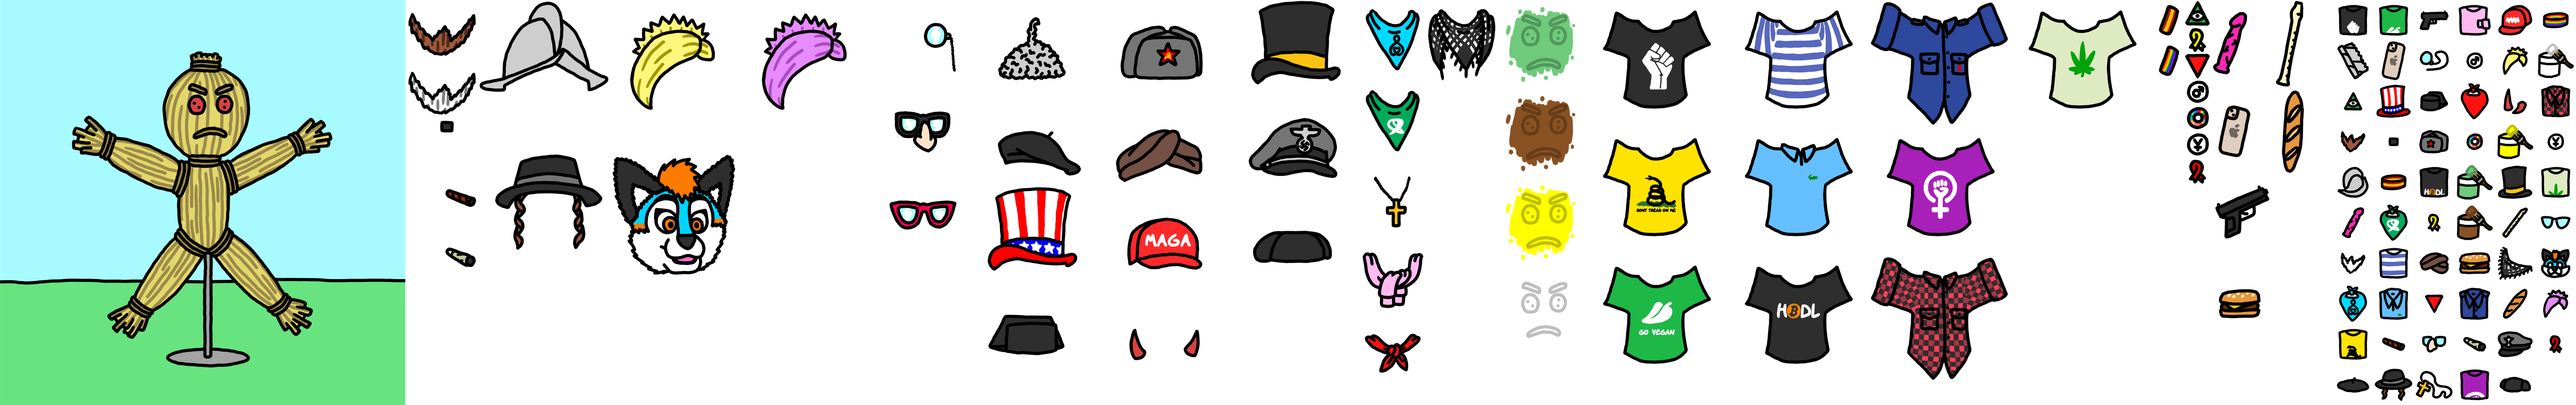
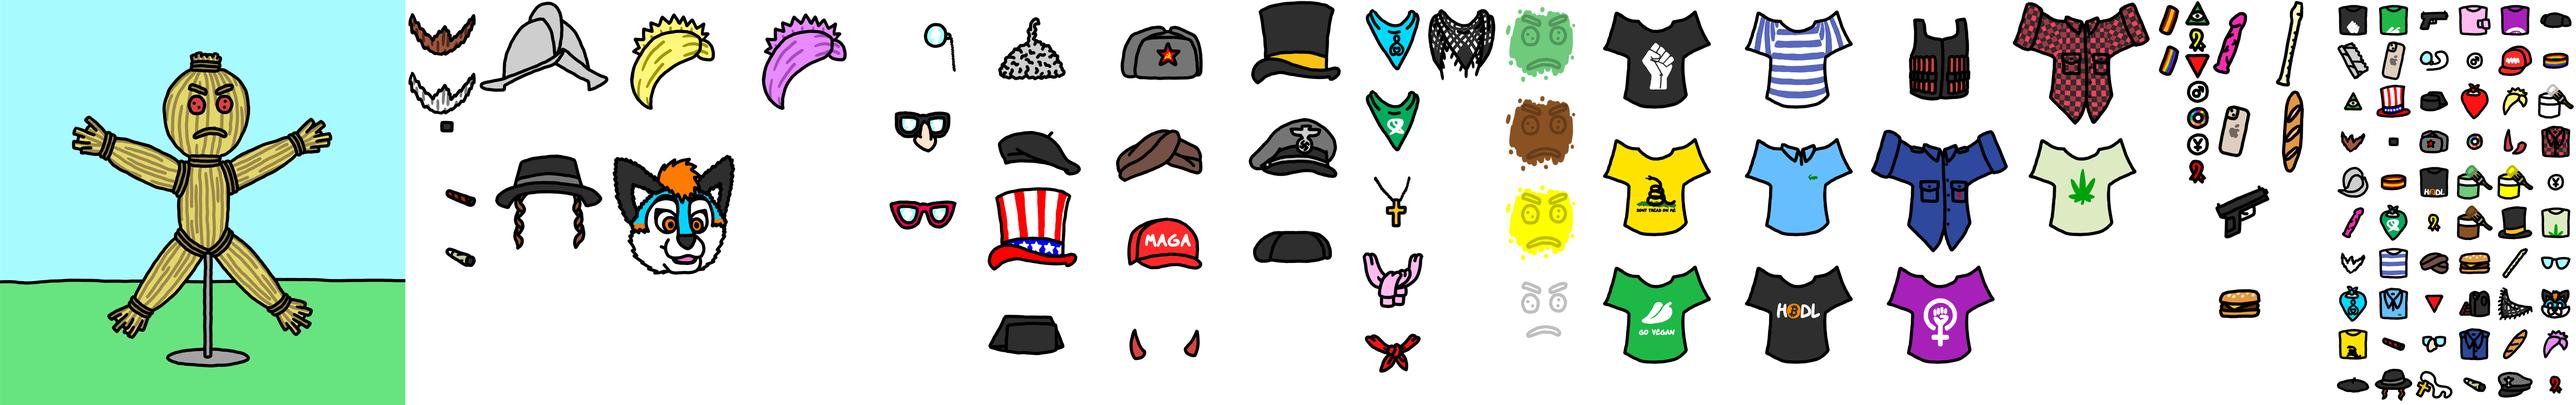
New accessories

diff --git a/docs/static/js/main.f2a2d364.chunk.js b/docs/static/js/main.f2a2d364.chunk.js
@@ -1,0 +1,2 @@
+(this.webpackJsonpstrawman=this.webpackJsonpstrawman||[]).push([[0],[,function(e){e.exports=JSON.parse('{"2030":{"en":"2030","es":"2030"},"loading":{"en":"loading","es":"cargando"},"make":{"en":"make your own","es":"crea tu propio"},"by":{"en":"by","es":"por"},"make_at":{"en":"make your own at","es":"crea el tuyo propio en"},"strawman":{"en":"straw man","es":"hombre de paja"},"download":{"en":"download","es":"descargar"},"accessories":{"en":"accessories","es":"accesorios"},"head":{"en":"head","es":"cabeza"},"color":{"en":"skin color","es":"tono de piel"},"glasses":{"en":"glasses","es":"gafas"},"neck":{"en":"neck","es":"cuello"},"bracelets":{"en":"bracelets","es":"pulseras"},"badges":{"en":"badges","es":"pines"},"hand":{"en":"hand","es":"mano"},"chest":{"en":"chest","es":"pecho"},"mouth":{"en":"mouth","es":"boca"},"spain":{"en":"Spain","es":"Espa\xf1a"},"lgbt":{"en":"LGBTIQ+","es":"LGBTIQ+"},"illuminati":{"en":"Illuminati","es":"Illuminati"},"yunque":{"en":"El Yunque","es":"El Yunque"},"male":{"en":"male","es":"hombre"},"red_triangle":{"en":"red triangle","es":"tri\xe1ngulo rojo"},"red_ribbon":{"en":"red ribbon","es":"lazo rojo"},"yellow_ribbon":{"en":"yellow ribbon","es":"lazo amarillo"},"prochoice":{"en":"pro-choice kerchief","es":"pa\xf1uelo abortero"},"prolife":{"en":"pro-life kerchief","es":"pa\xf1uelo provida"},"cross":{"en":"cross necklace","es":"colgante con cruz"},"nose":{"en":"glasses with nose","es":"gafas con nariz"},"cat_eye":{"en":"cat eye glasses","es":"gafas de ojo de gato"},"monocle":{"en":"monocle","es":"mon\xf3culo"},"green":{"en":"green","es":"verde"},"white":{"en":"white","es":"blanco"},"yellow":{"en":"yellow","es":"amarillo"},"brown":{"en":"brown","es":"marr\xf3n"},"morion":{"en":"morion","es":"morri\xf3n"},"turban":{"en":"turban","es":"turbante"},"sideburns":{"en":"hat with sideburns","es":"gorro con patillas"},"commie":{"en":"communist hat","es":"gorro comunista"},"top":{"en":"top hat","es":"chistera"},"nazi":{"en":"nazi hat","es":"gorra nazi"},"maga":{"en":"MAGA hat","es":"gorra MAGA"},"tricornio":{"en":"tricornio","es":"tricornio"},"montera":{"en":"montera","es":"montera"},"pink_hair":{"en":"pink hair","es":"pelo rosa"},"blond_hair":{"en":"blond hair","es":"pelo rubio"},"horns":{"en":"horns","es":"cuernos"},"furry":{"en":"furry mask","es":"m\xe1scara de furro"},"keffiyeh":{"en":"Palestinian keffiyeh","es":"palestina"},"sweater":{"en":"sweater","es":"jersey"},"tinfoil":{"en":"tinfoil","es":"papel de aluminio"},"flute":{"en":"flute","es":"flauta"},"dildo":{"en":"dildo","es":"consolador"},"gun":{"en":"gun","es":"pistola"},"iphone":{"en":"iPhone","es":"iPhone"},"blue_shirt":{"en":"blue shirt","es":"camisa azul"},"lumberjack":{"en":"lumberjack shirt","es":"camisa le\xf1ador"},"blm":{"en":"BLM T-shirt","es":"camiseta BLM"},"gadsden":{"en":"Gadsden T-shirt","es":"camiseta Gadsden"},"polo":{"en":"polo shirt","es":"polo"},"vegan":{"en":"vegan T-shirt","es":"camiseta vegana"},"feminism":{"en":"feminist T-shirt","es":"camiseta feminista"},"bitcoin":{"en":"Bitcoin T-shirt","es":"camiseta de Bitcoin"},"chaplin":{"en":"Chaplin moustache","es":"bigote de Chaplin"},"brown_beard":{"en":"brown beard","es":"barba casta\xf1a"},"white_beard":{"en":"white beard","es":"barba blanca"},"sam":{"en":"Uncle Sam\'s hat","es":"chistera del T\xedo Sam"},"cigar":{"en":"cigar","es":"puro"},"burger":{"en":"burger","es":"hamburguesa"},"baguette":{"en":"baguette","es":"baguette"},"beret":{"en":"beret","es":"boina"},"kerchief":{"en":"kerchief","es":"pa\xf1uelo"},"joint":{"en":"joint","es":"porro"},"striped":{"en":"striped T-shirt","es":"camiseta de rayas"},"weed":{"en":"weed T-shirt","es":"camiseta mar\xeda"},"vest":{"en":"bomb vest","es":"chaleco bomba"}}')},,,,,,,,,function(e){e.exports=JSON.parse('{"bracelets":{"lgbt":{"y":100,"w":80,"x":5310,"t":{"y":100,"w":100,"x":6255,"h":100},"h":100},"spain":{"y":0,"w":80,"x":5310,"t":{"y":400,"w":100,"x":5855,"h":100},"h":100}},"strawman":{"y":0,"w":1000,"x":0,"h":1000},"badges":{"2030":{"y":260,"w":65,"x":5390,"t":{"y":300,"w":100,"x":6055,"h":100},"h":65},"red_ribbon":{"y":390,"w":65,"x":5390,"t":{"y":900,"w":100,"x":6255,"h":100},"h":65},"yellow_ribbon":{"y":65,"w":65,"x":5390,"t":{"y":500,"w":100,"x":5955,"h":100},"h":65},"yunque":{"y":325,"w":65,"x":5390,"t":{"y":400,"w":100,"x":6255,"h":100},"h":65},"male":{"y":195,"w":65,"x":5390,"t":{"y":100,"w":100,"x":6055,"h":100},"h":65},"red_triangle":{"y":130,"w":65,"x":5390,"t":{"y":700,"w":100,"x":5955,"h":100},"h":65},"illuminati":{"y":0,"w":65,"x":5390,"t":{"y":200,"w":100,"x":5755,"h":100},"h":65}},"mouth":{"chaplin":{"y":290,"w":180,"x":1000,"t":{"y":300,"w":100,"x":5855,"h":100},"h":145},"brown_beard":{"y":0,"w":180,"x":1000,"t":{"y":300,"w":100,"x":5755,"h":100},"h":145},"cigar":{"y":435,"w":180,"x":1000,"t":{"y":800,"w":100,"x":5855,"h":100},"h":145},"joint":{"y":580,"w":180,"x":1000,"t":{"y":900,"w":100,"x":6055,"h":100},"h":145},"white_beard":{"y":145,"w":180,"x":1000,"t":{"y":600,"w":100,"x":5755,"h":100},"h":145}},"head2":{"sideburns":{"y":340,"w":325,"x":1180,"t":{"y":900,"w":100,"x":5855,"h":100},"h":340},"blond_hair":{"y":0,"w":325,"x":1505,"t":{"y":200,"w":100,"x":6155,"h":100},"h":340},"pink_hair":{"y":0,"w":325,"x":1830,"t":{"y":800,"w":100,"x":6255,"h":100},"h":340},"morion":{"y":0,"w":325,"x":1180,"t":{"y":400,"w":100,"x":5755,"h":100},"h":340},"furry":{"y":340,"w":325,"x":1505,"t":{"y":700,"w":100,"x":6255,"h":100},"h":340}},"head":{"maga":{"y":460,"w":325,"x":2700,"t":{"y":100,"w":100,"x":6155,"h":100},"h":230},"commie":{"y":0,"w":325,"x":2700,"t":{"y":300,"w":100,"x":5955,"h":100},"h":230},"tricornio":{"y":690,"w":325,"x":2375,"t":{"y":200,"w":100,"x":5955,"h":100},"h":230},"montera":{"y":460,"w":325,"x":3025,"t":{"y":0,"w":100,"x":6255,"h":100},"h":230},"top":{"y":0,"w":325,"x":3025,"t":{"y":500,"w":100,"x":6155,"h":100},"h":230},"nazi":{"y":230,"w":325,"x":3025,"t":{"y":900,"w":100,"x":6155,"h":100},"h":230},"tinfoil":{"y":0,"w":325,"x":2375,"t":{"y":100,"w":100,"x":5755,"h":100},"h":230},"turban":{"y":230,"w":325,"x":2700,"t":{"y":600,"w":100,"x":5955,"h":100},"h":230},"sam":{"y":460,"w":325,"x":2375,"t":{"y":200,"w":100,"x":5855,"h":100},"h":230},"horns":{"y":690,"w":325,"x":2700,"t":{"y":300,"w":100,"x":6155,"h":100},"h":230},"beret":{"y":230,"w":325,"x":2375,"t":{"y":900,"w":100,"x":5755,"h":100},"h":230}},"hand":{"dildo":{"y":0,"w":150,"x":5455,"t":{"y":500,"w":100,"x":5755,"h":100},"h":220},"burger":{"y":660,"w":150,"x":5455,"t":{"y":600,"w":100,"x":6055,"h":100},"h":220},"gun":{"y":440,"w":150,"x":5455,"t":{"y":0,"w":100,"x":5955,"h":100},"h":220},"baguette":{"y":220,"w":150,"x":5605,"t":{"y":800,"w":100,"x":6155,"h":100},"h":220},"flute":{"y":0,"w":150,"x":5605,"t":{"y":600,"w":100,"x":6155,"h":100},"h":220},"iphone":{"y":220,"w":150,"x":5455,"t":{"y":100,"w":100,"x":5855,"h":100},"h":220}},"glasses":{"cat_eye":{"y":440,"w":220,"x":2155,"t":{"y":600,"w":100,"x":6255,"h":100},"h":220},"nose":{"y":220,"w":220,"x":2155,"t":{"y":800,"w":100,"x":5955,"h":100},"h":220},"monocle":{"y":0,"w":220,"x":2155,"t":{"y":100,"w":100,"x":5955,"h":100},"h":220}},"neck":{"kerchief":{"y":800,"w":170,"x":3350,"t":{"y":200,"w":100,"x":6055,"h":100},"h":200},"sweater":{"y":600,"w":170,"x":3350,"t":{"y":0,"w":100,"x":6055,"h":100},"h":200},"cross":{"y":400,"w":170,"x":3350,"t":{"y":900,"w":100,"x":5955,"h":100},"h":200},"keffiyeh":{"y":0,"w":170,"x":3520,"t":{"y":700,"w":100,"x":6155,"h":100},"h":200},"prolife":{"y":0,"w":170,"x":3350,"t":{"y":700,"w":100,"x":5755,"h":100},"h":200},"prochoice":{"y":200,"w":170,"x":3350,"t":{"y":500,"w":100,"x":5855,"h":100},"h":200}},"chest":{"feminism":{"y":630,"w":350,"x":4610,"t":{"y":0,"w":100,"x":6155,"h":100},"h":315},"lumberjack":{"y":0,"w":350,"x":4960,"t":{"y":300,"w":100,"x":6255,"h":100},"h":315},"vegan":{"y":630,"w":350,"x":3910,"t":{"y":0,"w":100,"x":5855,"h":100},"h":315},"bitcoin":{"y":630,"w":350,"x":4260,"t":{"y":400,"w":100,"x":5955,"h":100},"h":315},"polo":{"y":315,"w":350,"x":4260,"t":{"y":700,"w":100,"x":5855,"h":100},"h":315},"weed":{"y":315,"w":350,"x":4960,"t":{"y":500,"w":100,"x":6255,"h":100},"h":315},"gadsden":{"y":315,"w":350,"x":3910,"t":{"y":800,"w":100,"x":5755,"h":100},"h":315},"vest":{"y":0,"w":350,"x":4610,"t":{"y":700,"w":100,"x":6055,"h":100},"h":315},"blue_shirt":{"y":315,"w":350,"x":4610,"t":{"y":800,"w":100,"x":6055,"h":100},"h":315},"blm":{"y":0,"w":350,"x":3910,"t":{"y":0,"w":100,"x":5755,"h":100},"h":315},"striped":{"y":0,"w":350,"x":4260,"t":{"y":600,"w":100,"x":5855,"h":100},"h":315}},"color":{"green":{"y":0,"w":220,"x":3690,"t":{"y":400,"w":100,"x":6055,"h":100},"h":220},"white":{"y":660,"w":220,"x":3690,"t":{"y":200,"w":100,"x":6255,"h":100},"h":220},"yellow":{"y":440,"w":220,"x":3690,"t":{"y":400,"w":100,"x":6155,"h":100},"h":220},"brown":{"y":220,"w":220,"x":3690,"t":{"y":500,"w":100,"x":6055,"h":100},"h":220}}}')},,,,function(e){e.exports=JSON.parse('{"head":{"x":340,"y":10,"w":325,"h":230,"z":8},"head2":{"x":340,"y":55,"w":325,"h":340,"z":8},"color":{"x":400,"y":170,"w":220,"h":220,"z":5},"mouth":{"x":420,"y":280,"w":180,"h":145,"z":6},"glasses":{"x":400,"y":170,"w":220,"h":220,"z":7},"neck":{"x":420,"y":355,"w":170,"h":200,"z":1},"bracelets":{"x":225,"y":310,"w":80,"h":100,"z":2},"badges":{"x":515,"y":395,"w":65,"h":65,"z":3},"hand":{"x":715,"y":230,"w":150,"h":220,"z":4},"chest":{"x":330,"y":345,"w":350,"h":315,"z":0}}')},,,,,,function(e,t,a){},function(e,t,a){},function(e,t,a){},,function(e,t,a){},function(e,t,a){},function(e,t,a){"use strict";a.r(t);var n=a(2),s=a.n(n),r=a(12),i=a.n(r),o=(a(20),a(11)),h=a(3),c=a(4),l=a(6),w=a(5),d=(a(21),a(15)),y=a(13),x=(a(22),function e(t){Object(h.a)(this,e),this.x=t.x,this.y=t.y,this.w=t.w,this.h=t.h}),u=function e(t,a,n,s){Object(h.a)(this,e),this.selected=!1,this.name=t,this.category=a,this.origin=new x(n),this.destination=new x(s),this.order=s.z,this.thumbnail=new x(n.t)},p=a(1),m=a(0),b=function(e){Object(l.a)(a,e);var t=Object(w.a)(a);function a(e){var s;return Object(h.a)(this,a),(s=t.call(this,e)).side=s.props.strawman.h,s.canvas=Object(n.createRef)(),s.maxScaleFactor=.7,s.state={scaleFactor:s.getScaleFactor()},s}return Object(c.a)(a,[{key:"componentDidMount",value:function(){var e=this;window.addEventListener("resize",(function(){e.setState({scaleFactor:e.getScaleFactor()})})),this.drawCanvas()}},{key:"componentDidUpdate",value:function(){this.drawCanvas()}},{key:"render",value:function(){var e=this;return Object(m.jsxs)("div",{className:"canvas-component",children:[Object(m.jsxs)("h1",{children:[Object(m.jsx)("div",{children:p.make[this.props.lang].capitalize()}),Object(m.jsx)("div",{children:p.strawman[this.props.lang].toUpperCase()}),Object(m.jsxs)("div",{children:[p.by[this.props.lang]," ",Object(m.jsx)("a",{href:"/",target:"_blank",children:"progredemente"})]})]}),Object(m.jsx)("canvas",{ref:this.canvas,width:this.side*this.state.scaleFactor,height:this.side*this.state.scaleFactor}),Object(m.jsx)("div",{className:"download",onClick:function(){e.downloadImage()},children:p.download[this.props.lang].capitalize()})]})}},{key:"drawCanvas",value:function(){var e=this.getTempCanvas(),t=this.canvas.current.getContext("2d");t.clearRect(0,0,this.side*this.state.scaleFactor,this.side*this.state.scaleFactor),t.drawImage(e,0,0,this.side*this.state.scaleFactor,this.side*this.state.scaleFactor)}},{key:"getTempCanvas",value:function(){var e=document.createElement("canvas");e.width=this.side,e.height=this.side;var t=e.getContext("2d");return this.drawImage(this.props.strawman,this.props.strawman,t),this.drawWardrobe(this.props.wardrobe,t),this.drawUrl(t),e}},{key:"drawWardrobe",value:function(e,t){var a,n=Object(y.a)(this.getClothes(e).sort((function(e,t){return e.order-t.order})));try{for(n.s();!(a=n.n()).done;){var s=a.value;this.drawImage(s.origin,s.destination,t)}}catch(r){n.e(r)}finally{n.f()}}},{key:"getClothes",value:function(e){var t=[];for(var a in e)e[a]instanceof u?e[a].selected&&t.push(e[a]):t.push.apply(t,Object(d.a)(this.getClothes(e[a])));return t}},{key:"drawImage",value:function(e,t,a){a.drawImage(this.props.img,e.x,e.y,e.w,e.h,t.x,t.y,t.w,t.h)}},{key:"drawUrl",value:function(e){e.font="40px ComicTypo",e.textAlign="center",e.globalAlpha=.25,e.fillText(p.make_at[this.props.lang].capitalize(),this.side/2,this.side-60),e.globalAlpha=.5,e.fillText("progredemente.com/strawman",this.side/2,this.side-20)}},{key:"downloadImage",value:function(){var e=document.createElement("a");e.download="strawman.png",this.getTempCanvas().toBlob((function(t){var a=URL.createObjectURL(t);e.href=a,e.click()}))}},{key:"getScaleFactor",value:function(){return window.innerWidth<this.side*this.maxScaleFactor?window.innerWidth/this.side:this.maxScaleFactor}}]),a}(n.Component),g=(a(24),a(25),function(e){Object(l.a)(a,e);var t=Object(w.a)(a);function a(){return Object(h.a)(this,a),t.apply(this,arguments)}return Object(c.a)(a,[{key:"render",value:function(){var e=this;return Object(m.jsxs)("div",{className:"garment".concat(this.props.garment.selected?" selected":""),onClick:function(){e.props.selectGarment(e.props.garment)},children:[Object(m.jsx)("img",{src:"./merge.png",style:{"--x":"".concat(this.props.garment.thumbnail.x,"px"),"--y":"".concat(this.props.garment.thumbnail.y,"px"),"--w":"".concat(this.props.garment.thumbnail.w,"px"),"--h":"".concat(this.props.garment.thumbnail.h,"px")},alt:p[this.props.garment.name][this.props.lang]}),Object(m.jsx)("figcaption",{children:p[this.props.garment.name][this.props.lang]})]})}}]),a}(n.Component)),f=g,j=function(e){Object(l.a)(a,e);var t=Object(w.a)(a);function a(){return Object(h.a)(this,a),t.apply(this,arguments)}return Object(c.a)(a,[{key:"render",value:function(){var e=this;return Object(m.jsxs)("div",{className:"wardrobe",children:[Object(m.jsx)("h1",{children:p.accessories[this.props.lang].capitalize()}),Object.keys(this.props.wardrobe).map((function(t){return Object(m.jsxs)("div",{className:"category",children:[Object(m.jsx)("span",{children:p[t][e.props.lang].capitalize()}),Object(m.jsx)("div",{className:"content",children:Object.keys(e.props.wardrobe[t]).map((function(a){return Object(m.jsx)(f,{garment:e.props.wardrobe[t][a],selectGarment:e.props.selectGarment,lang:e.props.lang},a)}))})]},t)}))]})}}]),a}(n.Component),v=j,O=a(10),k=a(14),z=function(e){Object(l.a)(a,e);var t=Object(w.a)(a);function a(e){var n,s;Object(h.a)(this,a),(n=t.call(this,e)).selectGarment=function(e){if(!e.selected)for(var t in e.category){var a=e.category[t];a!==e&&(a.selected=!1)}e.selected=!e.selected,n.setState({})};try{s=navigator.language.toLowerCase().split("-")[0]}catch(r){}return["en","es"].includes(s)||(s="en"),n.state={wardrobe:n.getWardrobe(O,k),lang:s,loaded:!1},n}return Object(c.a)(a,[{key:"componentDidMount",value:function(){var e=this;this.img=new Image,this.img.src="./merge.png",this.img.onload=function(){e.setState({loaded:!0})}}},{key:"joinCategories",value:function(e,t,a){for(var n in e[t]=Object(o.a)(Object(o.a)({},e[t]),e[a]),delete e[a],e[t])e[t][n].category=e[t]}},{key:"getWardrobe",value:function(e,t){var a={};for(var n in e)if("strawman"!==n)for(var s in a[n]={},e[n])a[n][s]=new u(s,a[n],e[n][s],t[n]);return this.joinCategories(a,"head","head2"),console.log(a),a}},{key:"render",value:function(){return Object(m.jsxs)(m.Fragment,{children:[this.state.loaded&&Object(m.jsxs)("div",{className:"app",children:[Object(m.jsx)(b,{wardrobe:this.state.wardrobe,strawman:new x(O.strawman),lang:this.state.lang,img:this.img}),Object(m.jsx)(v,{wardrobe:this.state.wardrobe,selectGarment:this.selectGarment,lang:this.state.lang})]}),!this.state.loaded&&Object(m.jsxs)("div",{className:"loading",children:[Object(m.jsx)("img",{src:"./favicon.png",alt:p.loading[this.state.lang]}),p.loading[this.state.lang]]})]})}}]),a}(n.Component),C=function(e){e&&e instanceof Function&&a.e(3).then(a.bind(null,27)).then((function(t){var a=t.getCLS,n=t.getFID,s=t.getFCP,r=t.getLCP,i=t.getTTFB;a(e),n(e),s(e),r(e),i(e)}))};String.prototype.capitalize=function(){return this[0].toUpperCase()+this.substr(1,this.length)},i.a.render(Object(m.jsx)(s.a.StrictMode,{children:Object(m.jsx)(z,{})}),document.getElementById("root")),C()}],[[26,1,2]]]);
+//# sourceMappingURL=main.f2a2d364.chunk.js.map

diff --git a/docs/index.html b/docs/index.html
@@ -1,1 +1,1 @@
-<!doctype html><html lang="en"><head><script async src="https://www.googletagmanager.com/gtag/js?id=G-Y5CBECWJKM"></script><script>function gtag(){dataLayer.push(arguments)}window.dataLayer=window.dataLayer||[],gtag("js",new Date),gtag("config","G-Y5CBECWJKM",{send_page_view:!1}),gtag("event","page_view",{page_title:"strawman"})</script><meta charset="utf-8"/><link rel="icon" href="./favicon.png"/><meta name="viewport" content="width=device-width,initial-scale=1"/><meta name="theme-color" content="#000000"/><meta name="description" content="Web site created using create-react-app"/><link rel="apple-touch-icon" href="./logo192.png"/><link rel="manifest" href="./manifest.json"/><title>Straw man</title><link href="./static/css/main.2544bd09.chunk.css" rel="stylesheet"></head><body><noscript>You need to enable JavaScript to run this app.</noscript><div id="root"></div><script>!function(e){function r(r){for(var n,u,i=r[0],c=r[1],l=r[2],s=0,p=[];s<i.length;s++)u=i[s],Object.prototype.hasOwnProperty.call(o,u)&&o[u]&&p.push(o[u][0]),o[u]=0;for(n in c)Object.prototype.hasOwnProperty.call(c,n)&&(e[n]=c[n]);for(f&&f(r);p.length;)p.shift()();return a.push.apply(a,l||[]),t()}function t(){for(var e,r=0;r<a.length;r++){for(var t=a[r],n=!0,i=1;i<t.length;i++){var c=t[i];0!==o[c]&&(n=!1)}n&&(a.splice(r--,1),e=u(u.s=t[0]))}return e}var n={},o={1:0},a=[];function u(r){if(n[r])return n[r].exports;var t=n[r]={i:r,l:!1,exports:{}};return e[r].call(t.exports,t,t.exports,u),t.l=!0,t.exports}u.e=function(e){var r=[],t=o[e];if(0!==t)if(t)r.push(t[2]);else{var n=new Promise((function(r,n){t=o[e]=[r,n]}));r.push(t[2]=n);var a,i=document.createElement("script");i.charset="utf-8",i.timeout=120,u.nc&&i.setAttribute("nonce",u.nc),i.src=function(e){return u.p+"static/js/"+({}[e]||e)+"."+{3:"adbab9fa"}[e]+".chunk.js"}(e);var c=new Error;a=function(r){i.onerror=i.onload=null,clearTimeout(l);var t=o[e];if(0!==t){if(t){var n=r&&("load"===r.type?"missing":r.type),a=r&&r.target&&r.target.src;c.message="Loading chunk "+e+" failed.\n("+n+": "+a+")",c.name="ChunkLoadError",c.type=n,c.request=a,t[1](c)}o[e]=void 0}};var l=setTimeout((function(){a({type:"timeout",target:i})}),12e4);i.onerror=i.onload=a,document.head.appendChild(i)}return Promise.all(r)},u.m=e,u.c=n,u.d=function(e,r,t){u.o(e,r)||Object.defineProperty(e,r,{enumerable:!0,get:t})},u.r=function(e){"undefined"!=typeof Symbol&&Symbol.toStringTag&&Object.defineProperty(e,Symbol.toStringTag,{value:"Module"}),Object.defineProperty(e,"__esModule",{value:!0})},u.t=function(e,r){if(1&r&&(e=u(e)),8&r)return e;if(4&r&&"object"==typeof e&&e&&e.__esModule)return e;var t=Object.create(null);if(u.r(t),Object.defineProperty(t,"default",{enumerable:!0,value:e}),2&r&&"string"!=typeof e)for(var n in e)u.d(t,n,function(r){return e[r]}.bind(null,n));return t},u.n=function(e){var r=e&&e.__esModule?function(){return e.default}:function(){return e};return u.d(r,"a",r),r},u.o=function(e,r){return Object.prototype.hasOwnProperty.call(e,r)},u.p="./",u.oe=function(e){throw console.error(e),e};var i=this.webpackJsonpstrawman=this.webpackJsonpstrawman||[],c=i.push.bind(i);i.push=r,i=i.slice();for(var l=0;l<i.length;l++)r(i[l]);var f=c;t()}([])</script><script src="./static/js/2.2e0816a8.chunk.js"></script><script src="./static/js/main.47056a48.chunk.js"></script></body></html>
+<!doctype html><html lang="en"><head><script async src="https://www.googletagmanager.com/gtag/js?id=G-Y5CBECWJKM"></script><script>function gtag(){dataLayer.push(arguments)}window.dataLayer=window.dataLayer||[],gtag("js",new Date),gtag("config","G-Y5CBECWJKM",{send_page_view:!1}),gtag("event","page_view",{page_title:"strawman"})</script><meta charset="utf-8"/><link rel="icon" href="./favicon.png"/><meta name="viewport" content="width=device-width,initial-scale=1"/><meta name="theme-color" content="#000000"/><meta name="description" content="Web site created using create-react-app"/><link rel="apple-touch-icon" href="./logo192.png"/><link rel="manifest" href="./manifest.json"/><title>Straw man</title><link href="./static/css/main.2544bd09.chunk.css" rel="stylesheet"></head><body><noscript>You need to enable JavaScript to run this app.</noscript><div id="root"></div><script>!function(e){function r(r){for(var n,u,i=r[0],c=r[1],l=r[2],s=0,p=[];s<i.length;s++)u=i[s],Object.prototype.hasOwnProperty.call(o,u)&&o[u]&&p.push(o[u][0]),o[u]=0;for(n in c)Object.prototype.hasOwnProperty.call(c,n)&&(e[n]=c[n]);for(f&&f(r);p.length;)p.shift()();return a.push.apply(a,l||[]),t()}function t(){for(var e,r=0;r<a.length;r++){for(var t=a[r],n=!0,i=1;i<t.length;i++){var c=t[i];0!==o[c]&&(n=!1)}n&&(a.splice(r--,1),e=u(u.s=t[0]))}return e}var n={},o={1:0},a=[];function u(r){if(n[r])return n[r].exports;var t=n[r]={i:r,l:!1,exports:{}};return e[r].call(t.exports,t,t.exports,u),t.l=!0,t.exports}u.e=function(e){var r=[],t=o[e];if(0!==t)if(t)r.push(t[2]);else{var n=new Promise((function(r,n){t=o[e]=[r,n]}));r.push(t[2]=n);var a,i=document.createElement("script");i.charset="utf-8",i.timeout=120,u.nc&&i.setAttribute("nonce",u.nc),i.src=function(e){return u.p+"static/js/"+({}[e]||e)+"."+{3:"adbab9fa"}[e]+".chunk.js"}(e);var c=new Error;a=function(r){i.onerror=i.onload=null,clearTimeout(l);var t=o[e];if(0!==t){if(t){var n=r&&("load"===r.type?"missing":r.type),a=r&&r.target&&r.target.src;c.message="Loading chunk "+e+" failed.\n("+n+": "+a+")",c.name="ChunkLoadError",c.type=n,c.request=a,t[1](c)}o[e]=void 0}};var l=setTimeout((function(){a({type:"timeout",target:i})}),12e4);i.onerror=i.onload=a,document.head.appendChild(i)}return Promise.all(r)},u.m=e,u.c=n,u.d=function(e,r,t){u.o(e,r)||Object.defineProperty(e,r,{enumerable:!0,get:t})},u.r=function(e){"undefined"!=typeof Symbol&&Symbol.toStringTag&&Object.defineProperty(e,Symbol.toStringTag,{value:"Module"}),Object.defineProperty(e,"__esModule",{value:!0})},u.t=function(e,r){if(1&r&&(e=u(e)),8&r)return e;if(4&r&&"object"==typeof e&&e&&e.__esModule)return e;var t=Object.create(null);if(u.r(t),Object.defineProperty(t,"default",{enumerable:!0,value:e}),2&r&&"string"!=typeof e)for(var n in e)u.d(t,n,function(r){return e[r]}.bind(null,n));return t},u.n=function(e){var r=e&&e.__esModule?function(){return e.default}:function(){return e};return u.d(r,"a",r),r},u.o=function(e,r){return Object.prototype.hasOwnProperty.call(e,r)},u.p="./",u.oe=function(e){throw console.error(e),e};var i=this.webpackJsonpstrawman=this.webpackJsonpstrawman||[],c=i.push.bind(i);i.push=r,i=i.slice();for(var l=0;l<i.length;l++)r(i[l]);var f=c;t()}([])</script><script src="./static/js/2.2e0816a8.chunk.js"></script><script src="./static/js/main.f2a2d364.chunk.js"></script></body></html>
